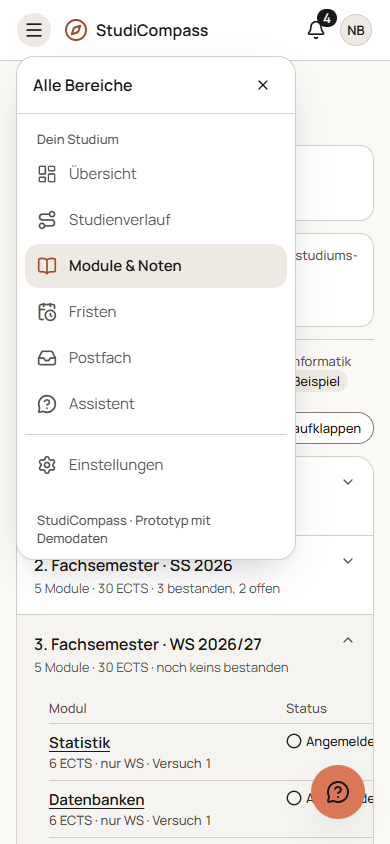
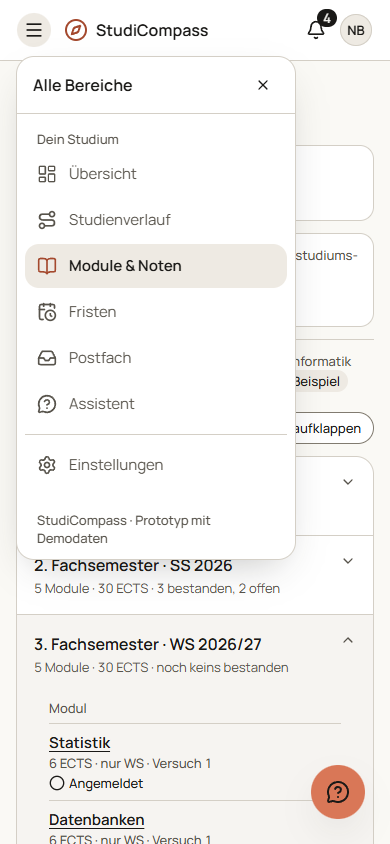
fix: keep the module table readable on phones and save pending notes (P5-12 review)
Below 640 px status and grade move under the module name; notes typed right before leaving are saved on unmount, and links and notes are keyed per module.

diff --git a/src/features/modules/ModuleList.tsx b/src/features/modules/ModuleList.tsx
@@ -85,10 +85,16 @@ function SemesterTable({ group }: { group: SemesterGroup }) {
           >
             Versuch
           </th>
-          <th scope="col" className="py-1.5 pr-3 text-left font-medium">
+          <th
+            scope="col"
+            className="hidden py-1.5 pr-3 text-left font-medium sm:table-cell"
+          >
             Status
           </th>
-          <th scope="col" className="py-1.5 text-right font-medium">
+          <th
+            scope="col"
+            className="hidden py-1.5 text-right font-medium sm:table-cell"
+          >
             Note
           </th>
         </tr>
@@ -109,6 +115,15 @@ function SemesterTable({ group }: { group: SemesterGroup }) {
                 {OFFERING[module.offering]}
                 {exam?.attempt ? ` · Versuch ${exam.attempt}` : ""}
               </span>
+              {/* Phones: status and grade as a line of their own, so no column is cut off (P5-12 review). */}
+              <span className="mt-0.5 flex flex-wrap items-center gap-x-3 sm:hidden">
+                <ExamStatusLabel exam={exam} />
+                {exam?.grade !== undefined && (
+                  <span className="text-meta font-semibold tabular-nums">
+                    Note {formatGrade(exam.grade)}
+                  </span>
+                )}
+              </span>
             </th>
             <td className="hidden py-2 pr-3 text-right tabular-nums sm:table-cell">
               {module.ects}
@@ -119,10 +134,10 @@ function SemesterTable({ group }: { group: SemesterGroup }) {
             <td className="hidden py-2 pr-3 text-meta tabular-nums md:table-cell">
               {exam?.attempt ?? "–"}
             </td>
-            <td className="py-2 pr-3 whitespace-nowrap">
+            <td className="hidden py-2 pr-3 whitespace-nowrap sm:table-cell">
               <ExamStatusLabel exam={exam} />
             </td>
-            <td className="py-2 text-right font-semibold tabular-nums">
+            <td className="hidden py-2 text-right font-semibold tabular-nums sm:table-cell">
               {exam?.grade !== undefined ? formatGrade(exam.grade) : "–"}
             </td>
           </tr>

diff --git a/src/features/modules/ModuleNotes.tsx b/src/features/modules/ModuleNotes.tsx
@@ -12,14 +12,23 @@ export function ModuleNotes({ moduleId }: { moduleId: string }) {
   const [text, setText] = useState(stored);
   const [saved, setSaved] = useState(false);
   const timer = useRef<ReturnType<typeof setTimeout> | undefined>(undefined);
+  // Text typed but not yet saved; leaving the page saves it (P5-12 review: Browser-Zurück within 600 ms).
+  const pending = useRef<string | null>(null);
   const id = useId();
 
   const save = (value: string) => {
     clearTimeout(timer.current);
+    pending.current = null;
     setModuleNote(moduleId, value);
     setSaved(true);
   };
-  useEffect(() => () => clearTimeout(timer.current), []);
+  useEffect(
+    () => () => {
+      clearTimeout(timer.current);
+      if (pending.current !== null) setModuleNote(moduleId, pending.current);
+    },
+    [moduleId, setModuleNote],
+  );
 
   return (
     <section className="rounded-xl border bg-card p-4" aria-labelledby={id}>
@@ -42,6 +51,7 @@ export function ModuleNotes({ moduleId }: { moduleId: string }) {
           const value = event.target.value;
           setText(value);
           setSaved(false);
+          pending.current = value;
           clearTimeout(timer.current);
           timer.current = setTimeout(() => save(value), SAVE_DELAY_MS);
         }}

diff --git a/src/features/modules/ModulesPage.test.tsx b/src/features/modules/ModulesPage.test.tsx
@@ -1,4 +1,4 @@
-import { render, screen, within } from "@testing-library/react";
+import { cleanup, render, screen, within } from "@testing-library/react";
 import userEvent from "@testing-library/user-event";
 import { createMemoryRouter, RouterProvider } from "react-router";
 import { afterEach, describe, expect, it, vi } from "vitest";
@@ -186,5 +186,14 @@ describe("Moduldetail: Kurs-Links und Notizen (P5-12)", () => {
     expect(demoStore.getState().moduleNotes["m-stat"]).toBe(
       "Probeklausur rechnen",
     );
+  });
+
+  it("keeps a note typed right before leaving the page (P5-12 review)", async () => {
+    await renderAt("/module/m-stat");
+    const user = userEvent.setup();
+    await user.type(screen.getByLabelText("Notizen zum Modul"), "Blatt 12");
+    // Leave before the save delay ends.
+    cleanup();
+    expect(demoStore.getState().moduleNotes["m-stat"]).toBe("Blatt 12");
   });
 });

diff --git a/e2e/feedback.e2e.ts b/e2e/feedback.e2e.ts
@@ -230,3 +230,20 @@ test("P5-12: aktuelles Semester ohne Scrollen sichtbar, Notiz übersteht Neulade
     "Probeklausur bis Dienstag rechnen",
   );
 });
+
+test("P5-12: Modulliste am Handy ohne abgeschnittene Werte", async ({
+  page,
+  isMobile,
+}) => {
+  test.skip(!isMobile, "Phone layout");
+  await page.goto("/module");
+  const table = page.getByRole("table", { name: "Module im 3. Fachsemester" });
+  const tableBox = await table.boundingBox();
+  const status = table.getByText("Angemeldet").first();
+  await expect(status).toBeVisible();
+  const statusBox = await status.boundingBox();
+  expect((statusBox?.x ?? 0) + (statusBox?.width ?? 0)).toBeLessThanOrEqual(
+    (tableBox?.x ?? 0) + (tableBox?.width ?? 0),
+  );
+  expect(tableBox?.width ?? 999).toBeLessThanOrEqual(390);
+});

diff --git a/src/features/modules/ModuleDetail.tsx b/src/features/modules/ModuleDetail.tsx
@@ -151,8 +151,13 @@ export function ModuleDetail({ id }: { id: string }) {
           </div>
         </div>
         <aside aria-label="Deine Ergänzungen" className="space-y-5">
-          <CourseLinks moduleId={module.id} title={module.title} />
-          <ModuleNotes moduleId={module.id} />
+          {/* Keyed by module: switching modules must not carry over drafts or open forms. */}
+          <CourseLinks
+            key={`links-${module.id}`}
+            moduleId={module.id}
+            title={module.title}
+          />
+          <ModuleNotes key={`notes-${module.id}`} moduleId={module.id} />
         </aside>
       </div>
     </div>

diff --git a/docs/reviews/P5-12.md b/docs/reviews/P5-12.md
@@ -1,0 +1,33 @@
+# Review P5-12 – ECTS-Verlauf und Module & Noten
+Urteil: Freigabe nach Fixes
+
+- Reviewer: Codex (CLI `codex review --base feat/P5-11-was-waere-wenn`, read-only), gestartet von Claude Code am 29.10.2026
+- Geprüft: `ccfacf4` gegen `feat/P5-11-was-waere-wenn` (1 Commit; gestapelt auf PR #27)
+
+| # | Schwere | Datei:Zeile | Befund | Vorschlag |
+|---|---------|-------------|--------|-----------|
+| 1 | Major (Codex: P2) | src/features/modules/ModuleList.tsx:252 | Bei 390 px ist die Semestertabelle zu breit: Statuswerte sind abgeschnitten, die Notenspalte ist unsichtbar; `AccordionContent` blendet den Überlauf ohne Scrollmöglichkeit aus. | Mobile Aufteilung anpassen oder zugänglich scrollen lassen. |
+| 2 | Major (Codex: P2) | src/features/modules/ModuleNotes.tsx:23 | Das Aufräumen beim Verlassen löscht nur den Speicher-Timer. Navigiert man innerhalb von 600 ms nach der Eingabe weg (z. B. Browser-Zurück), geht die letzte Änderung verloren, weil `onBlur` beim Entfernen nicht zuverlässig kommt. | Entwurf beim Unmount speichern. |
+
+Positiv: von Codex nicht genannt.
+Offene Fragen an Lucas: keine.
+
+## Offen aus Sicht von Codex
+- Tests liefen in der Sandbox nicht (`spawn EPERM`); den Nachweis liefert Claude Code unten.
+
+## Nachprüfung durch Claude Code
+- Befund 1 **bestätigt** am Screenshot `module-390.png`. Die Sichtprüfung vor dem Review hatte nur 1440×900 erfasst – ein Versäumnis.
+- Befund 2 **bestätigt**: Der neue Test (Eingabe, sofort `cleanup()`) scheitert ohne Fix.
+- Beim Fix aufgefallen: Wechselt man direkt von einem Moduldetail zum nächsten, blieb dieselbe Notizen-Komponente mit dem alten Text stehen. Kurs-Links und Notizen sind jetzt je Modul eigenständig (`key`).
+
+## Umgesetzt
+- Unter 640 px stehen Status und Note als eigene Zeile unter dem Modulnamen; die Spalten erscheinen erst ab `sm`. E2E prüft am Handy, dass der Status innerhalb der Tabelle und die Tabelle innerhalb von 390 px liegt.
+- `ModuleNotes` merkt sich ungespeicherten Text und speichert ihn beim Verlassen.
+
+## Abgelehnt mit Begründung
+– (keine)
+
+## Prüfergebnisse
+- `npm run check`: grün (39 Testdateien, 273 Tests); neu u. a. URL-Prüfung, Store-Tests für Notizen und Links (auch unsichere gespeicherte Adressen), Wertetabelle mit Differenz, Modulliste, Kurs-Links, Notizen.
+- `npm run e2e`: 36 grün. Neu: Tooltip „12 ECTS unter Soll“ beim Überfahren, Tabelle des 3. Fachsemesters bei 1440×900 voll sichtbar, Notiz übersteht Neuladen, Handy-Tabelle ohne abgeschnittene Werte.
+- `npm run screens`: alle Ansichten neu; Sichtprüfung 1440×900 und 390×844 (Liste, Detail, ECTS-Verlauf).
